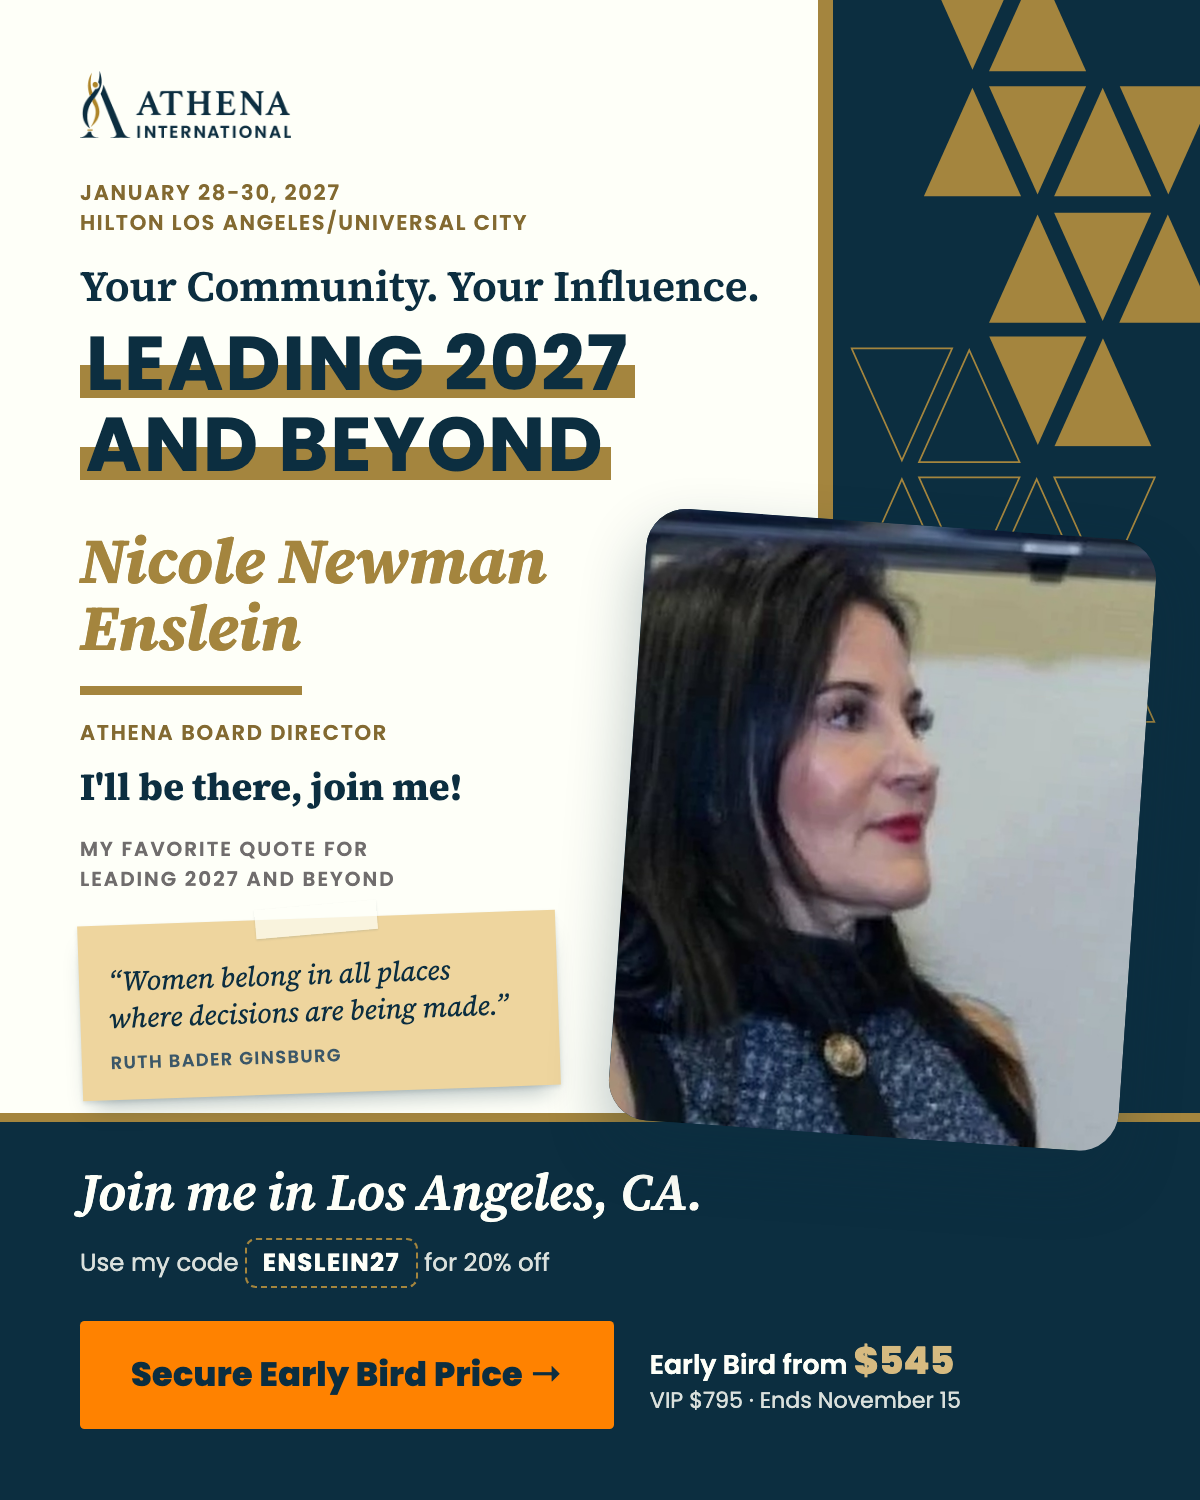
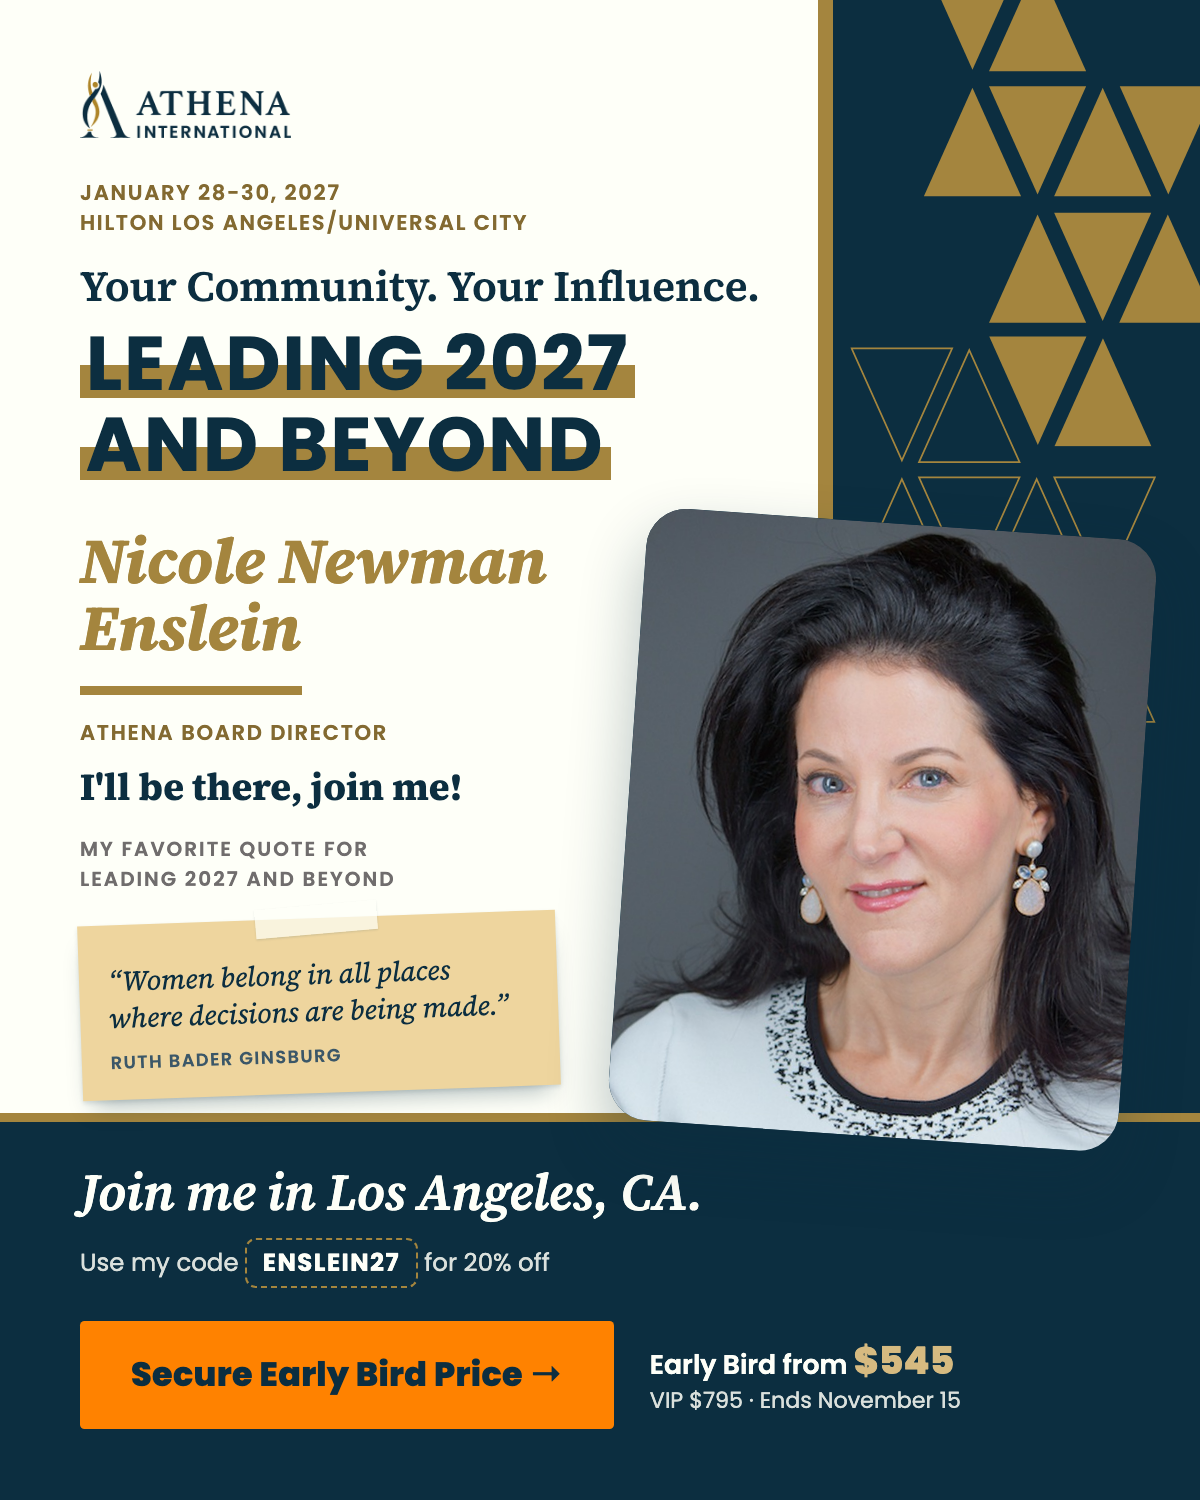
kit de speakers atualizado

Changed region(s): [[0.4933, 0.3373, 0.9867, 0.7667]]

diff --git a/index.html b/index.html
@@ -1427,7 +1427,7 @@ https://conference.athenainternational.org/?utm_source=linkedin&amp;utm_medium=p
 <div class="tags"><span class="code">ENSLEIN27</span><a href="nicole-newman-enslein/captions-board.txt?v=462407c8" target="_blank" rel="noopener">captions-board.txt</a></div></header>
 <div class="chs">
 <article class="ch">
-<a class="shot" href="nicole-newman-enslein/nicole-newman-enslein_board_ig-post_1080x1350.png?v=a8847740" target="_blank" rel="noopener"><img src="nicole-newman-enslein/nicole-newman-enslein_board_ig-post_1080x1350.png?v=a8847740" alt="Nicole Newman Enslein, Instagram Post" loading="lazy" width="1080" height="1350"></a>
+<a class="shot" href="nicole-newman-enslein/nicole-newman-enslein_board_ig-post_1080x1350.png?v=a9504c88" target="_blank" rel="noopener"><img src="nicole-newman-enslein/nicole-newman-enslein_board_ig-post_1080x1350.png?v=a9504c88" alt="Nicole Newman Enslein, Instagram Post" loading="lazy" width="1080" height="1350"></a>
 <div class="chbody"><h4>Instagram Post<span>1080 × 1350</span></h4><p class="meta">Invite @athena_international as a collaborator.</p>
 <pre id="b-nicole-newman-enslein-ig">I&#x27;ll be there, join me!
 
@@ -1444,12 +1444,12 @@ Tickets: conference.athenainternational.org
 #ATHENA2027 #WomenInLeadership #LeadershipDevelopment #WomenLeaders #LosAngeles</pre>
 <button type="button" class="copy" data-for="b-nicole-newman-enslein-ig">Copy text</button></div></article>
 <article class="ch">
-<a class="shot" href="nicole-newman-enslein/nicole-newman-enslein_board_ig-story_1080x1920.png?v=8fcbf9b1" target="_blank" rel="noopener"><img src="nicole-newman-enslein/nicole-newman-enslein_board_ig-story_1080x1920.png?v=8fcbf9b1" alt="Nicole Newman Enslein, Instagram Story" loading="lazy" width="1080" height="1920"></a>
+<a class="shot" href="nicole-newman-enslein/nicole-newman-enslein_board_ig-story_1080x1920.png?v=0eb27de6" target="_blank" rel="noopener"><img src="nicole-newman-enslein/nicole-newman-enslein_board_ig-story_1080x1920.png?v=0eb27de6" alt="Nicole Newman Enslein, Instagram Story" loading="lazy" width="1080" height="1920"></a>
 <div class="chbody"><h4>Instagram Story<span>1080 × 1920</span></h4>
 <div class="fields"><div class="field"><span class="flabel">Link sticker</span><code class="fval" id="b-nicole-newman-enslein-st-link">https://conference.athenainternational.org/?utm_source=instagram&amp;utm_medium=story&amp;utm_campaign=speaker_kit_2027&amp;utm_content=board-nicole-newman-enslein</code><button type="button" class="copy small" data-for="b-nicole-newman-enslein-st-link" data-label="Copy link">Copy link</button></div><div class="field"><span class="flabel">Sticker text</span><code class="fval" id="b-nicole-newman-enslein-st-text">Get your pass</code><button type="button" class="copy small" data-for="b-nicole-newman-enslein-st-text" data-label="Copy text">Copy text</button></div><div class="field"><span class="flabel">Mention</span><code class="fval" id="b-nicole-newman-enslein-st-mention">@athena_international</code><button type="button" class="copy small" data-for="b-nicole-newman-enslein-st-mention" data-label="Copy mention">Copy mention</button></div></div>
 </div></article>
 <article class="ch">
-<a class="shot" href="nicole-newman-enslein/nicole-newman-enslein_board_linkedin_1200x1500.png?v=fa054d1e" target="_blank" rel="noopener"><img src="nicole-newman-enslein/nicole-newman-enslein_board_linkedin_1200x1500.png?v=fa054d1e" alt="Nicole Newman Enslein, LinkedIn Post" loading="lazy" width="1080" height="1350"></a>
+<a class="shot" href="nicole-newman-enslein/nicole-newman-enslein_board_linkedin_1200x1500.png?v=f5996aa1" target="_blank" rel="noopener"><img src="nicole-newman-enslein/nicole-newman-enslein_board_linkedin_1200x1500.png?v=f5996aa1" alt="Nicole Newman Enslein, LinkedIn Post" loading="lazy" width="1080" height="1350"></a>
 <div class="chbody"><h4>LinkedIn Post<span>1200 × 1500</span></h4><p class="meta">Tag the ATHENA International company page.</p>
 <pre id="b-nicole-newman-enslein-li">I&#x27;ll be there, join me!
 
@@ -1661,7 +1661,7 @@ Early Bird pricing from $545 ends November 15.
 https://conference.athenainternational.org/?utm_source=linkedin&amp;utm_medium=post&amp;utm_campaign=social_2027&amp;utm_content=painel-money
 
 #ATHENA2027 #WomenInLeadership #SmallBusiness #Entrepreneurship</pre><button type="button" class="copy" data-for="s-painel-money-li">Copy text</button></div></article></div></section><section class="spk" id="board-of-directors"><header class="spkhead"><div><p class="role">ATHENA accounts</p><h3>2026-2027 Board of Directors</h3></div>
-<div class="tags"><a href="social/board-of-directors/captions.txt?v=f7b35ae7" target="_blank" rel="noopener">captions.txt</a></div></header><div class="chs"><article class="ch"><a class="shot" href="social/board-of-directors/board-of-directors_ig-post_1080x1350.png?v=878578e4" target="_blank" rel="noopener"><img src="social/board-of-directors/board-of-directors_ig-post_1080x1350.png?v=878578e4" alt="2026-2027 Board of Directors, Instagram Post" loading="lazy" width="1080" height="1350"></a>
+<div class="tags"><a href="social/board-of-directors/captions.txt?v=f7b35ae7" target="_blank" rel="noopener">captions.txt</a></div></header><div class="chs"><article class="ch"><a class="shot" href="social/board-of-directors/board-of-directors_ig-post_1080x1350.png?v=25ab5992" target="_blank" rel="noopener"><img src="social/board-of-directors/board-of-directors_ig-post_1080x1350.png?v=25ab5992" alt="2026-2027 Board of Directors, Instagram Post" loading="lazy" width="1080" height="1350"></a>
 <div class="chbody"><h4>Instagram Post<span>1080 × 1350</span></h4>
 <pre id="s-board-of-directors-ig">We&#x27;ll be there. Join us!
 
@@ -1673,10 +1673,10 @@ Early Bird pricing from $545 ends November 15.
 Tickets: conference.athenainternational.org
 
 #ATHENA2027 #WomenInLeadership #LeadershipDevelopment #WomenLeaders #LosAngeles</pre><button type="button" class="copy" data-for="s-board-of-directors-ig">Copy text</button></div></article>
-<article class="ch"><a class="shot" href="social/board-of-directors/board-of-directors_ig-story_1080x1920.png?v=a150c9ab" target="_blank" rel="noopener"><img src="social/board-of-directors/board-of-directors_ig-story_1080x1920.png?v=a150c9ab" alt="2026-2027 Board of Directors, Instagram Story" loading="lazy" width="1080" height="1920"></a>
+<article class="ch"><a class="shot" href="social/board-of-directors/board-of-directors_ig-story_1080x1920.png?v=a093f77a" target="_blank" rel="noopener"><img src="social/board-of-directors/board-of-directors_ig-story_1080x1920.png?v=a093f77a" alt="2026-2027 Board of Directors, Instagram Story" loading="lazy" width="1080" height="1920"></a>
 <div class="chbody"><h4>Instagram Story<span>1080 × 1920</span></h4><p class="meta">Link sticker “Get your pass”<br><span class="url">https://conference.athenainternational.org/?utm_source=instagram&amp;utm_medium=story&amp;utm_campaign=social_2027&amp;utm_content=board-of-directors</span>Mention sticker @athena_international</p>
 <pre id="s-board-of-directors-st">See you in LA</pre><button type="button" class="copy" data-for="s-board-of-directors-st">Copy text</button></div></article>
-<article class="ch"><a class="shot" href="social/board-of-directors/board-of-directors_linkedin_1200x1500.png?v=e6abe337" target="_blank" rel="noopener"><img src="social/board-of-directors/board-of-directors_linkedin_1200x1500.png?v=e6abe337" alt="2026-2027 Board of Directors, LinkedIn Post" loading="lazy" width="1080" height="1350"></a>
+<article class="ch"><a class="shot" href="social/board-of-directors/board-of-directors_linkedin_1200x1500.png?v=d0a93ef3" target="_blank" rel="noopener"><img src="social/board-of-directors/board-of-directors_linkedin_1200x1500.png?v=d0a93ef3" alt="2026-2027 Board of Directors, LinkedIn Post" loading="lazy" width="1080" height="1350"></a>
 <div class="chbody"><h4>LinkedIn Post<span>1200 × 1500</span></h4>
 <pre id="s-board-of-directors-li">We&#x27;ll be there. Join us!
 
@@ -1691,7 +1691,7 @@ Early Bird pricing from $545 ends November 15.
 https://conference.athenainternational.org/?utm_source=linkedin&amp;utm_medium=post&amp;utm_campaign=social_2027&amp;utm_content=board-of-directors
 
 #ATHENA2027 #WomenInLeadership #LeadershipDevelopment</pre><button type="button" class="copy" data-for="s-board-of-directors-li">Copy text</button></div></article></div></section><section class="spk" id="carrossel-walk-away"><header class="spkhead"><div><p class="role">ATHENA accounts</p><h3>Carousel: What you&#x27;ll walk away with</h3></div>
-<div class="tags"><a class="req" href="social/carrossel-walk-away/carrossel-walk-away.zip?v=a4b7cc0a" download>Download all (.zip)</a><a href="social/carrossel-walk-away/captions.txt?v=ce262162" target="_blank" rel="noopener">captions.txt</a></div></header><div class="slides"><a class="slideth" href="social/carrossel-walk-away/carrossel-walk-away_slide-01_1080x1350.png?v=d2d1f01e" target="_blank" rel="noopener"><img src="social/carrossel-walk-away/carrossel-walk-away_slide-01_1080x1350.png?v=d2d1f01e" alt="Slide 1" loading="lazy" width="1080" height="1350"></a><a class="slideth" href="social/carrossel-walk-away/carrossel-walk-away_slide-02_1080x1350.png?v=46e67450" target="_blank" rel="noopener"><img src="social/carrossel-walk-away/carrossel-walk-away_slide-02_1080x1350.png?v=46e67450" alt="Slide 2" loading="lazy" width="1080" height="1350"></a><a class="slideth" href="social/carrossel-walk-away/carrossel-walk-away_slide-03_1080x1350.png?v=a969948b" target="_blank" rel="noopener"><img src="social/carrossel-walk-away/carrossel-walk-away_slide-03_1080x1350.png?v=a969948b" alt="Slide 3" loading="lazy" width="1080" height="1350"></a><a class="slideth" href="social/carrossel-walk-away/carrossel-walk-away_slide-04_1080x1350.png?v=dea81c03" target="_blank" rel="noopener"><img src="social/carrossel-walk-away/carrossel-walk-away_slide-04_1080x1350.png?v=dea81c03" alt="Slide 4" loading="lazy" width="1080" height="1350"></a><a class="slideth" href="social/carrossel-walk-away/carrossel-walk-away_slide-05_1080x1350.png?v=9298ddf2" target="_blank" rel="noopener"><img src="social/carrossel-walk-away/carrossel-walk-away_slide-05_1080x1350.png?v=9298ddf2" alt="Slide 5" loading="lazy" width="1080" height="1350"></a><a class="slideth" href="social/carrossel-walk-away/carrossel-walk-away_slide-06_1080x1350.png?v=7f7d2de4" target="_blank" rel="noopener"><img src="social/carrossel-walk-away/carrossel-walk-away_slide-06_1080x1350.png?v=7f7d2de4" alt="Slide 6" loading="lazy" width="1080" height="1350"></a><a class="slideth" href="social/carrossel-walk-away/carrossel-walk-away_slide-07_1080x1350.png?v=d960583a" target="_blank" rel="noopener"><img src="social/carrossel-walk-away/carrossel-walk-away_slide-07_1080x1350.png?v=d960583a" alt="Slide 7" loading="lazy" width="1080" height="1350"></a><a class="slideth" href="social/carrossel-walk-away/carrossel-walk-away_slide-08_1080x1350.png?v=fb393e35" target="_blank" rel="noopener"><img src="social/carrossel-walk-away/carrossel-walk-away_slide-08_1080x1350.png?v=fb393e35" alt="Slide 8" loading="lazy" width="1080" height="1350"></a><a class="slideth" href="social/carrossel-walk-away/carrossel-walk-away_slide-09_1080x1350.png?v=6b04b124" target="_blank" rel="noopener"><img src="social/carrossel-walk-away/carrossel-walk-away_slide-09_1080x1350.png?v=6b04b124" alt="Slide 9" loading="lazy" width="1080" height="1350"></a><a class="slideth" href="social/carrossel-walk-away/carrossel-walk-away_slide-10_1080x1350.png?v=d05206da" target="_blank" rel="noopener"><img src="social/carrossel-walk-away/carrossel-walk-away_slide-10_1080x1350.png?v=d05206da" alt="Slide 10" loading="lazy" width="1080" height="1350"></a><a class="slideth" href="social/carrossel-walk-away/carrossel-walk-away_slide-11_1080x1350.png?v=d0f4b760" target="_blank" rel="noopener"><img src="social/carrossel-walk-away/carrossel-walk-away_slide-11_1080x1350.png?v=d0f4b760" alt="Slide 11" loading="lazy" width="1080" height="1350"></a></div>
+<div class="tags"><a class="req" href="social/carrossel-walk-away/carrossel-walk-away.zip?v=07f31476" download>Download all (.zip)</a><a href="social/carrossel-walk-away/captions.txt?v=ce262162" target="_blank" rel="noopener">captions.txt</a></div></header><div class="slides"><a class="slideth" href="social/carrossel-walk-away/carrossel-walk-away_slide-01_1080x1350.png?v=d2d1f01e" target="_blank" rel="noopener"><img src="social/carrossel-walk-away/carrossel-walk-away_slide-01_1080x1350.png?v=d2d1f01e" alt="Slide 1" loading="lazy" width="1080" height="1350"></a><a class="slideth" href="social/carrossel-walk-away/carrossel-walk-away_slide-02_1080x1350.png?v=46e67450" target="_blank" rel="noopener"><img src="social/carrossel-walk-away/carrossel-walk-away_slide-02_1080x1350.png?v=46e67450" alt="Slide 2" loading="lazy" width="1080" height="1350"></a><a class="slideth" href="social/carrossel-walk-away/carrossel-walk-away_slide-03_1080x1350.png?v=a969948b" target="_blank" rel="noopener"><img src="social/carrossel-walk-away/carrossel-walk-away_slide-03_1080x1350.png?v=a969948b" alt="Slide 3" loading="lazy" width="1080" height="1350"></a><a class="slideth" href="social/carrossel-walk-away/carrossel-walk-away_slide-04_1080x1350.png?v=dea81c03" target="_blank" rel="noopener"><img src="social/carrossel-walk-away/carrossel-walk-away_slide-04_1080x1350.png?v=dea81c03" alt="Slide 4" loading="lazy" width="1080" height="1350"></a><a class="slideth" href="social/carrossel-walk-away/carrossel-walk-away_slide-05_1080x1350.png?v=9298ddf2" target="_blank" rel="noopener"><img src="social/carrossel-walk-away/carrossel-walk-away_slide-05_1080x1350.png?v=9298ddf2" alt="Slide 5" loading="lazy" width="1080" height="1350"></a><a class="slideth" href="social/carrossel-walk-away/carrossel-walk-away_slide-06_1080x1350.png?v=7f7d2de4" target="_blank" rel="noopener"><img src="social/carrossel-walk-away/carrossel-walk-away_slide-06_1080x1350.png?v=7f7d2de4" alt="Slide 6" loading="lazy" width="1080" height="1350"></a><a class="slideth" href="social/carrossel-walk-away/carrossel-walk-away_slide-07_1080x1350.png?v=d960583a" target="_blank" rel="noopener"><img src="social/carrossel-walk-away/carrossel-walk-away_slide-07_1080x1350.png?v=d960583a" alt="Slide 7" loading="lazy" width="1080" height="1350"></a><a class="slideth" href="social/carrossel-walk-away/carrossel-walk-away_slide-08_1080x1350.png?v=fb393e35" target="_blank" rel="noopener"><img src="social/carrossel-walk-away/carrossel-walk-away_slide-08_1080x1350.png?v=fb393e35" alt="Slide 8" loading="lazy" width="1080" height="1350"></a><a class="slideth" href="social/carrossel-walk-away/carrossel-walk-away_slide-09_1080x1350.png?v=6b04b124" target="_blank" rel="noopener"><img src="social/carrossel-walk-away/carrossel-walk-away_slide-09_1080x1350.png?v=6b04b124" alt="Slide 9" loading="lazy" width="1080" height="1350"></a><a class="slideth" href="social/carrossel-walk-away/carrossel-walk-away_slide-10_1080x1350.png?v=d05206da" target="_blank" rel="noopener"><img src="social/carrossel-walk-away/carrossel-walk-away_slide-10_1080x1350.png?v=d05206da" alt="Slide 10" loading="lazy" width="1080" height="1350"></a><a class="slideth" href="social/carrossel-walk-away/carrossel-walk-away_slide-11_1080x1350.png?v=d0f4b760" target="_blank" rel="noopener"><img src="social/carrossel-walk-away/carrossel-walk-away_slide-11_1080x1350.png?v=d0f4b760" alt="Slide 11" loading="lazy" width="1080" height="1350"></a></div>
 <div class="chs two"><div class="chbody"><h4>Instagram Carousel<span>11 slides · 1080 × 1350</span></h4>
 <pre id="s-carrossel-walk-away-ig">What do you take home from ATHENA 2027? Swipe through.
 
